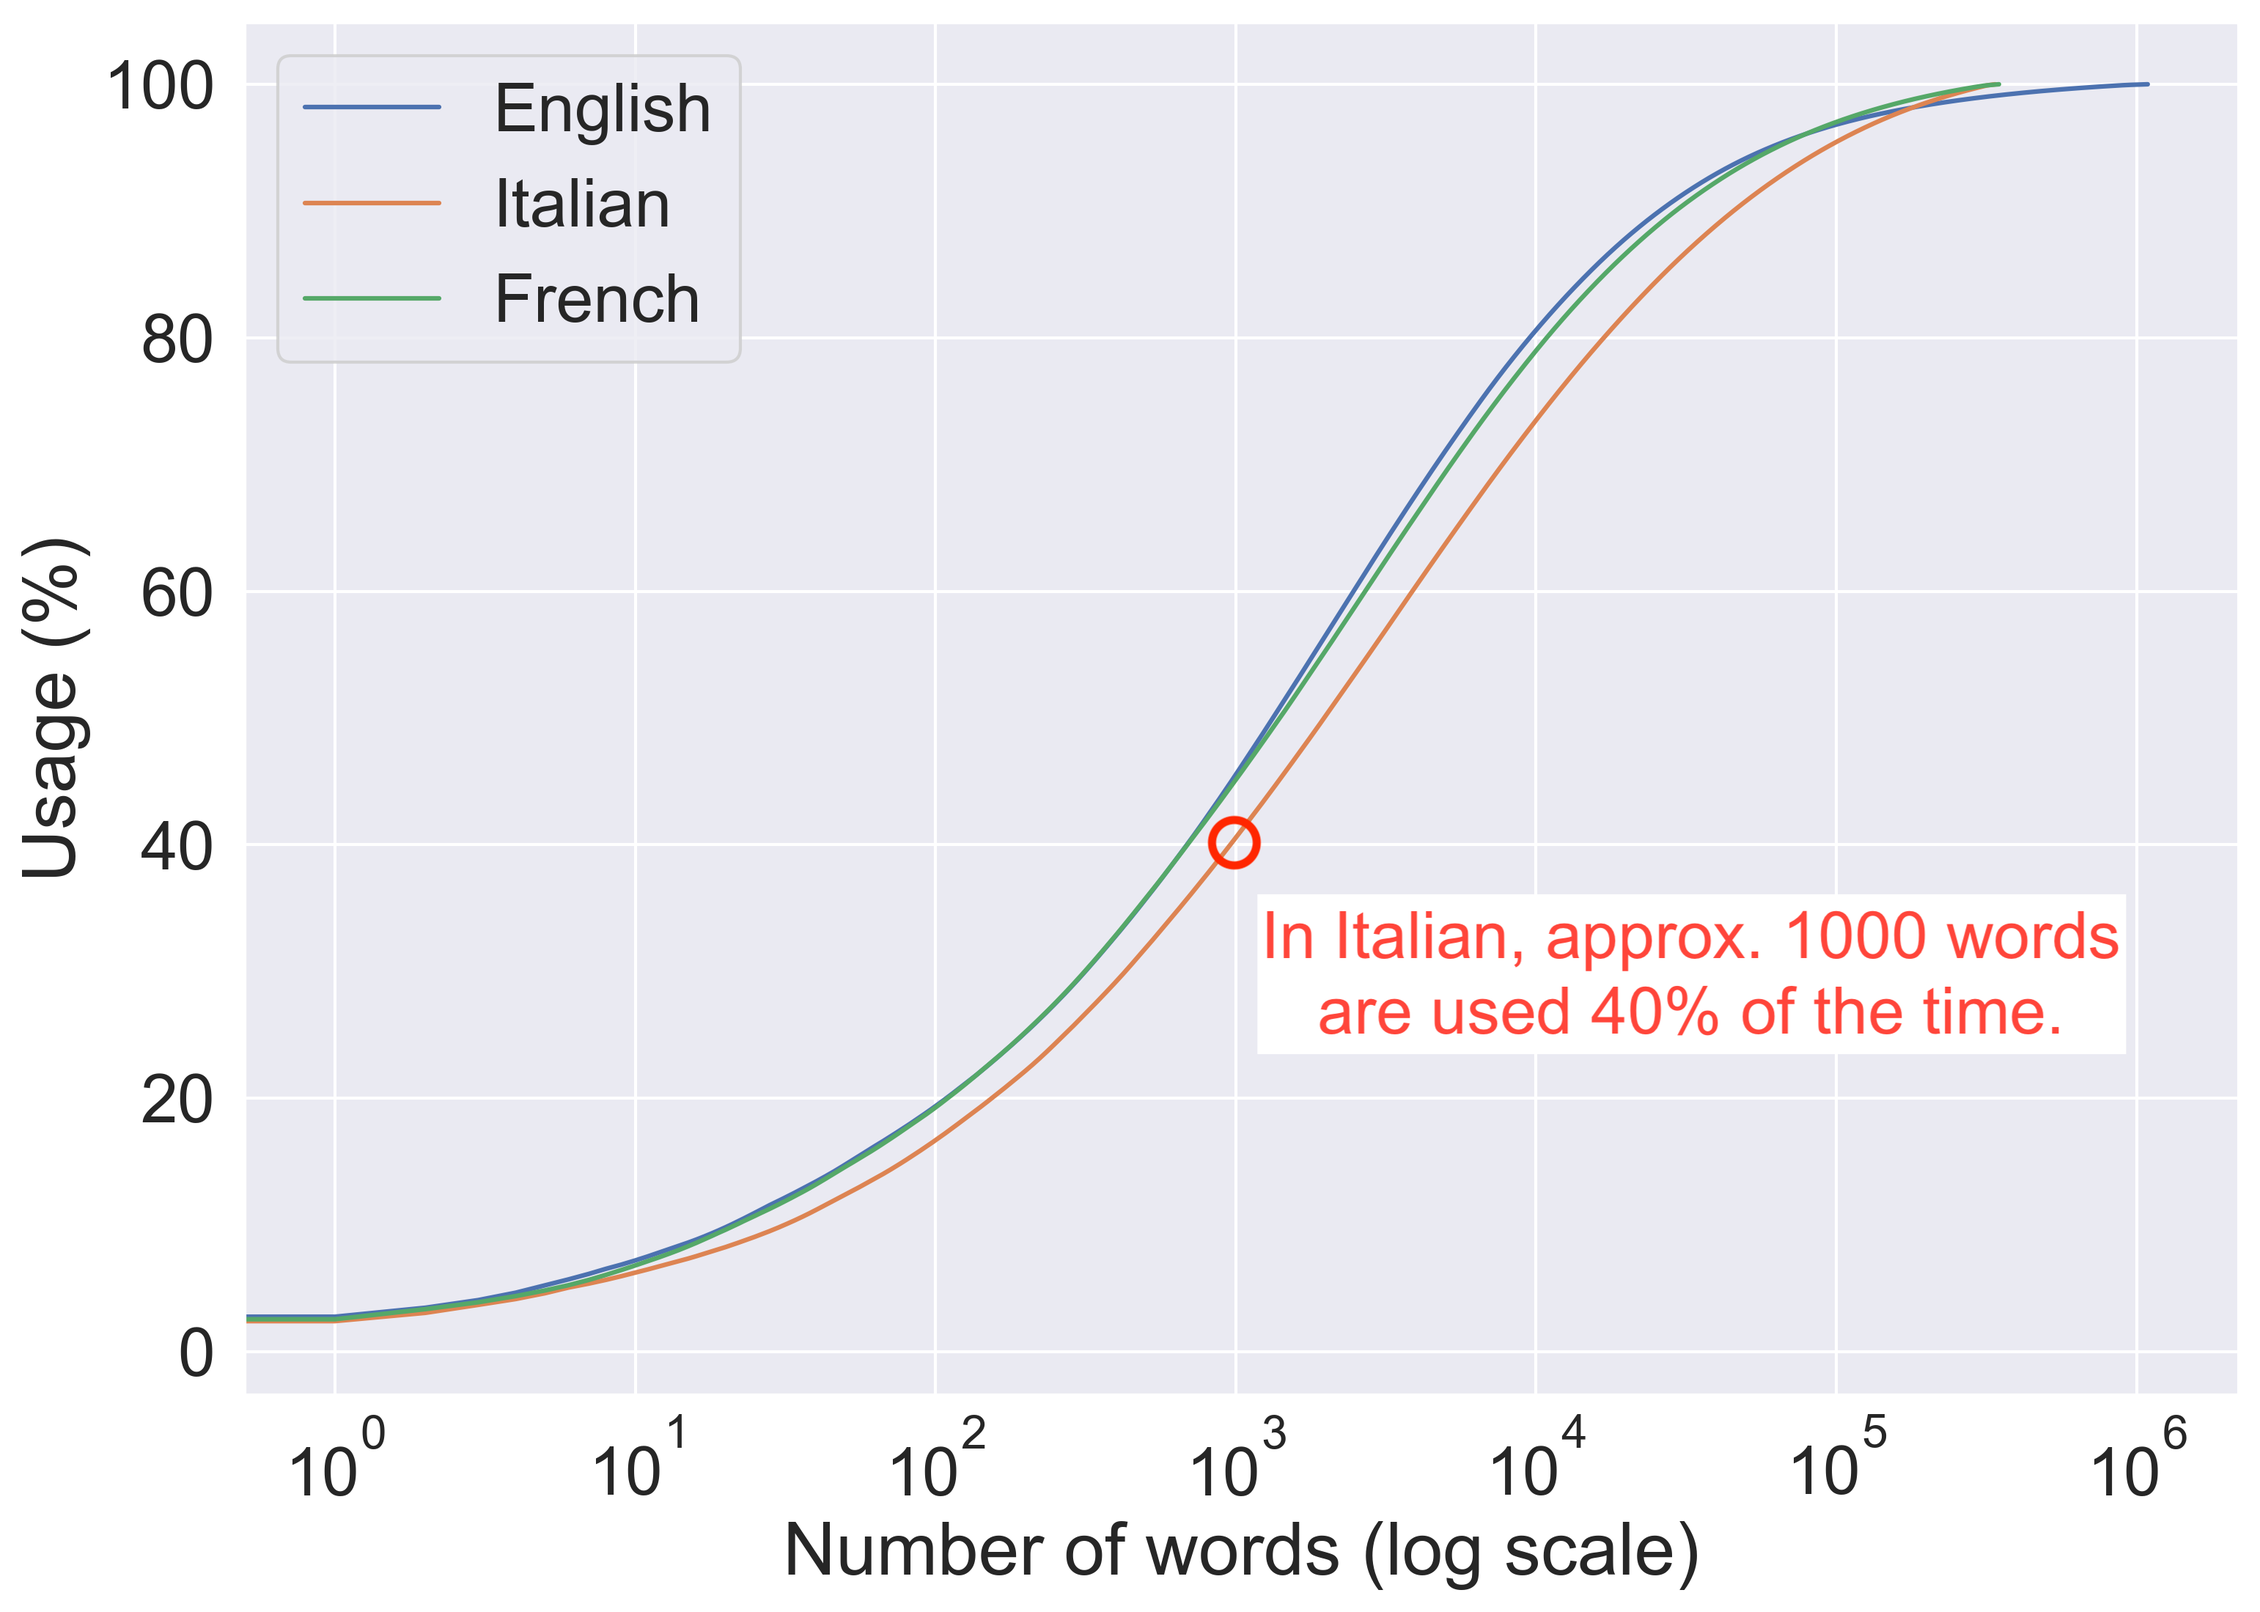
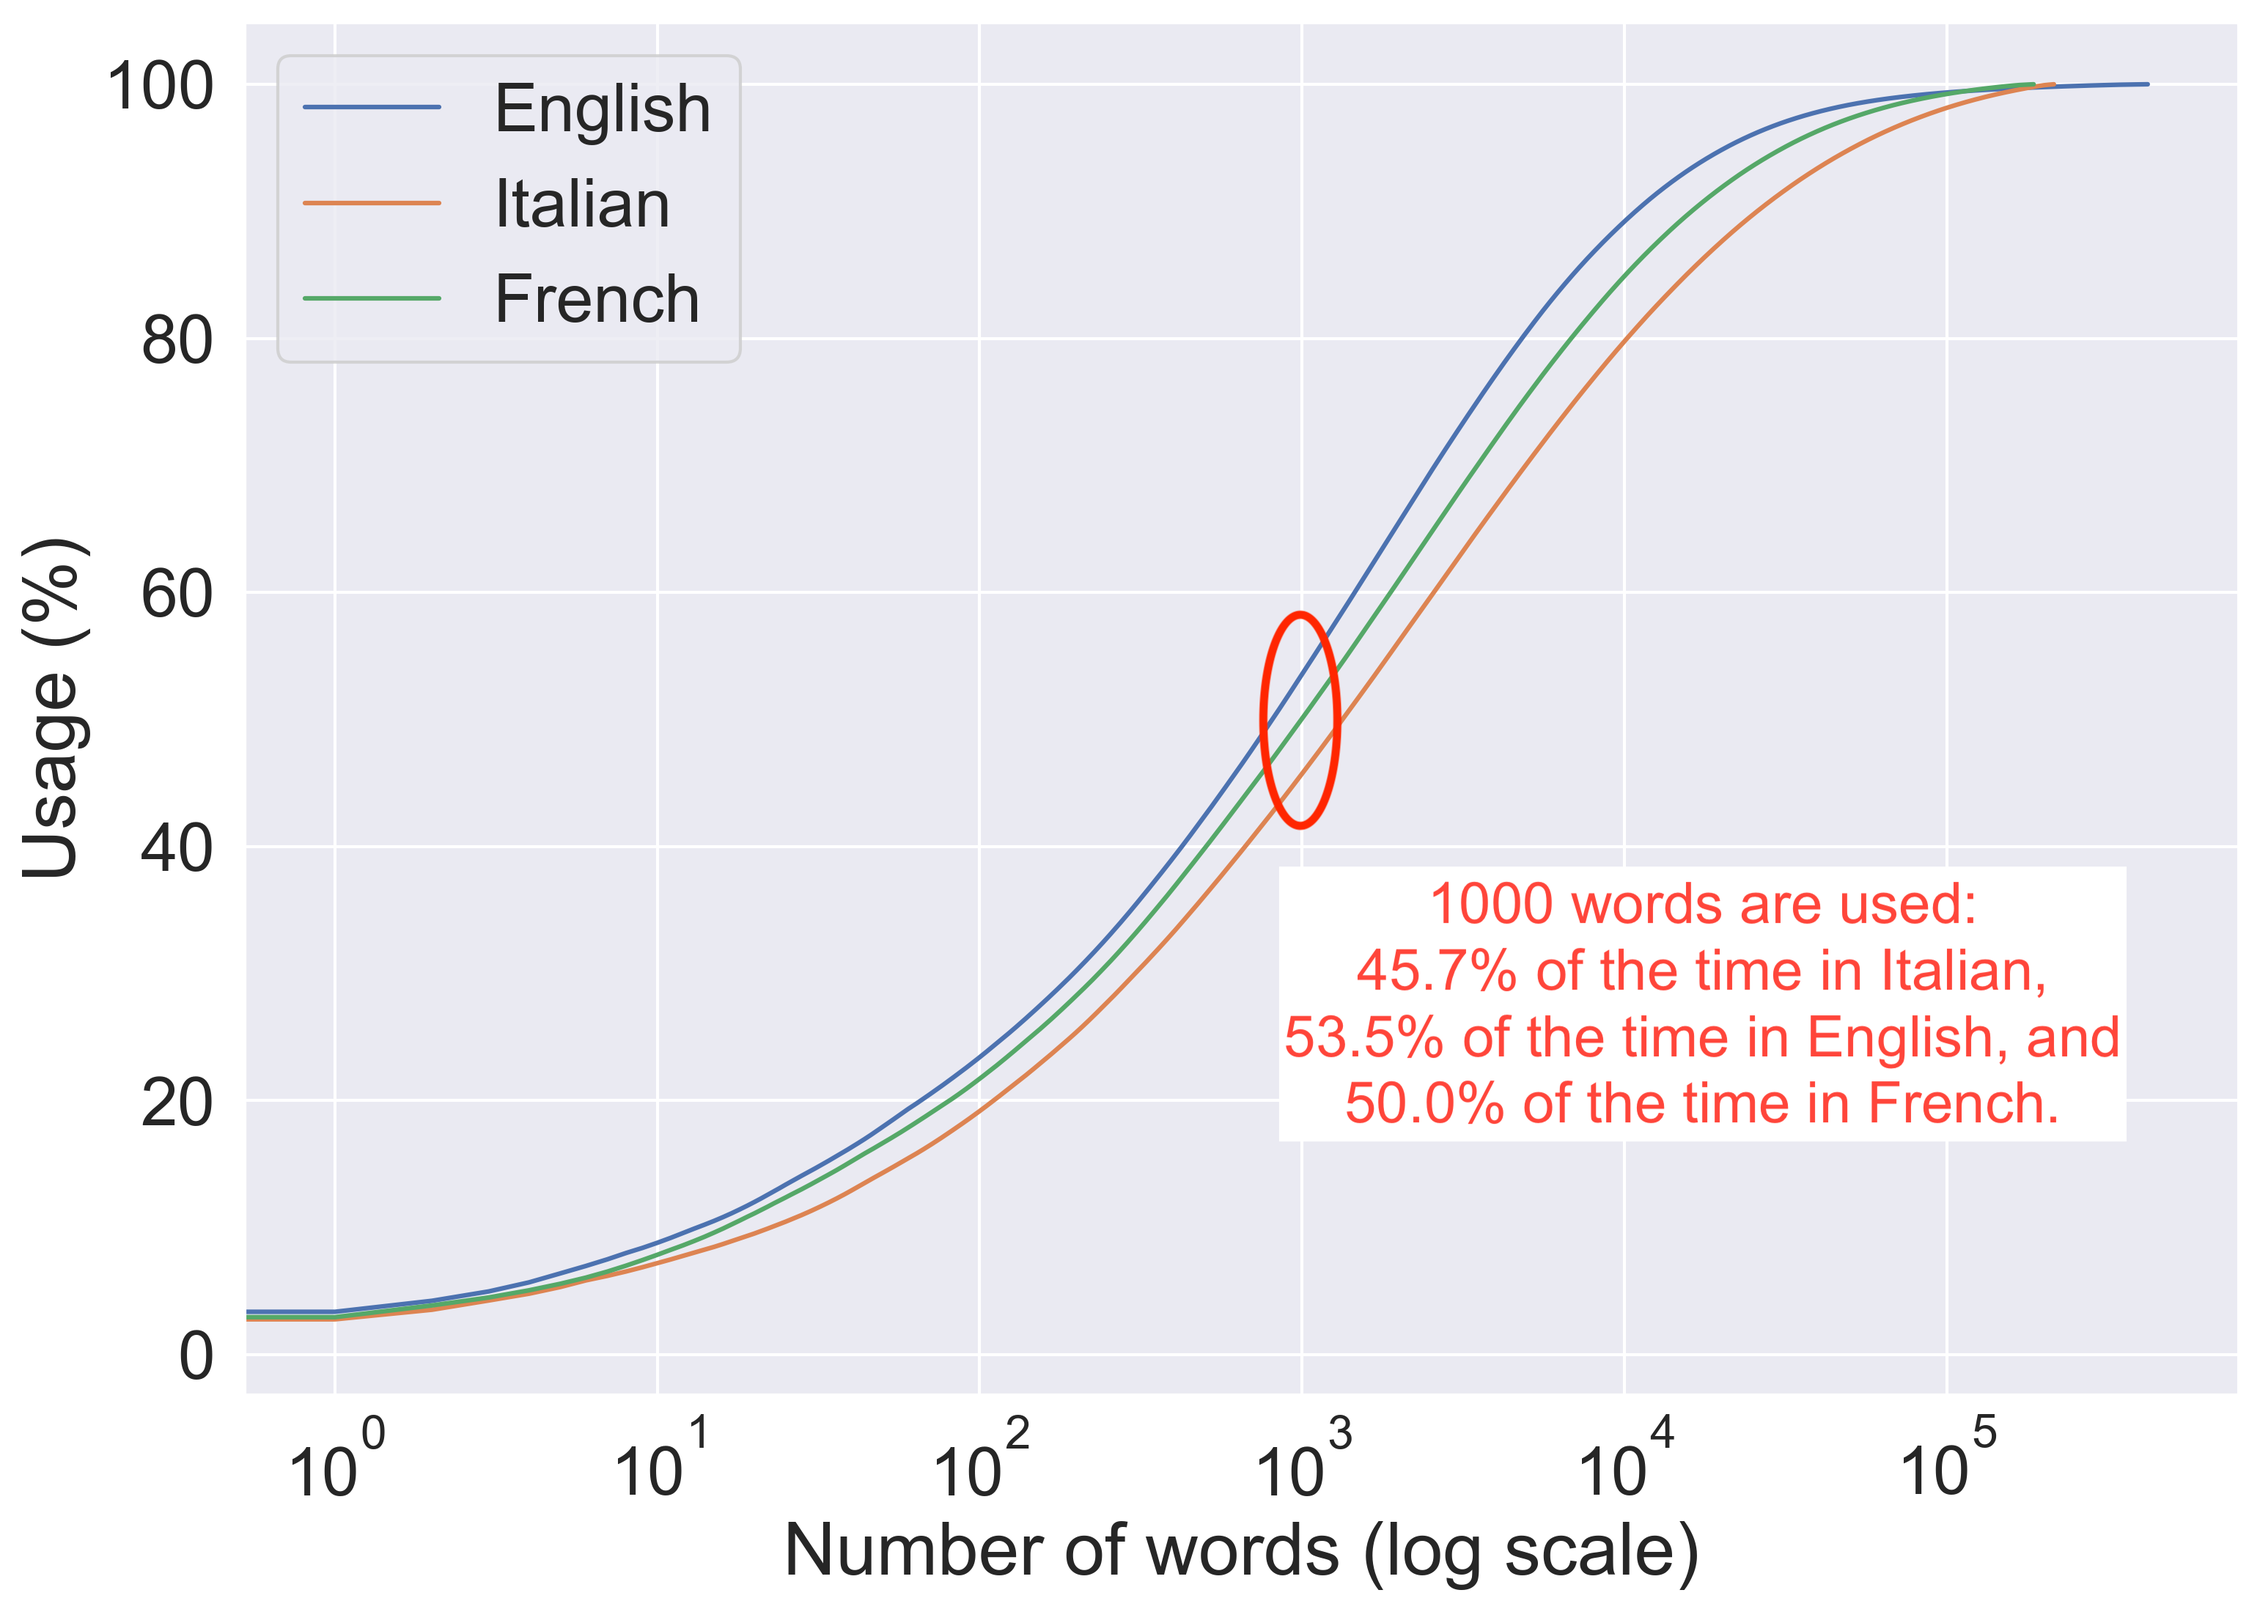
Corrected stats, new annotated plot

diff --git a/README.md b/README.md
@@ -14,9 +14,9 @@ Some numbers:
 - Italian: 668 words are used 40% of the time, 215171 words in total.
 
 Or, to put it differently:
-- Italian: 1000 words are used 45.7 of the time.
-- English: 1000 words are used 53.5 of the time.
-- French: 1000 words are used 50.0 of the time.
+- Italian: 1000 words are used 45.7% of the time.
+- English: 1000 words are used 53.5% of the time.
+- French: 1000 words are used 50.0% of the time.
 
 ## How it works
 
